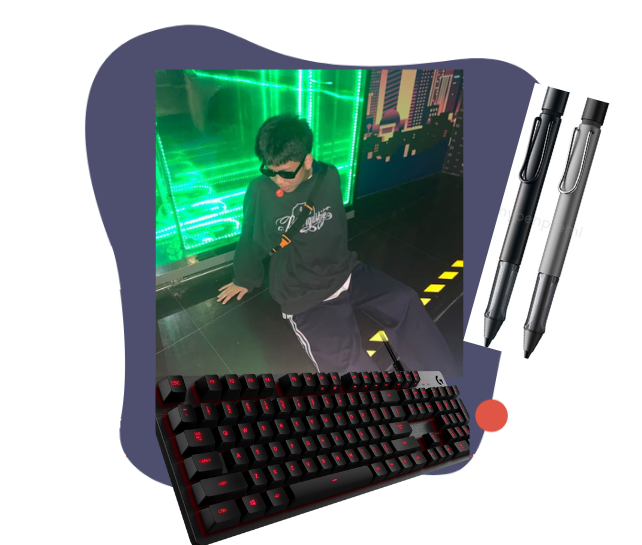
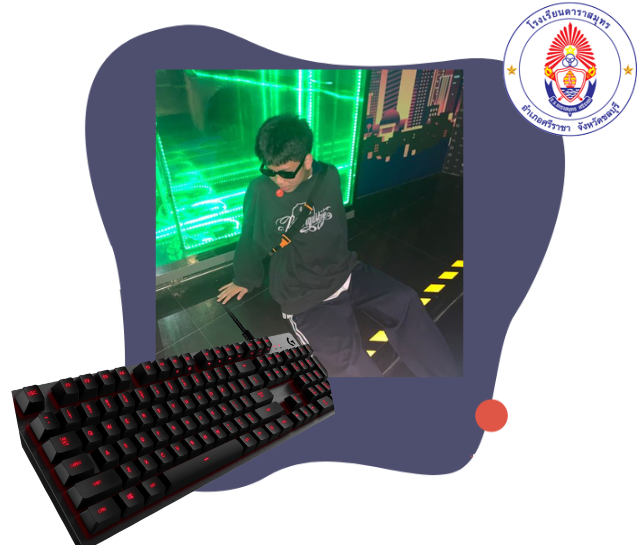
main

Changed region(s): [[0.0, 0.5927, 0.7477, 1.0], [0.7165, 0.0, 0.9969, 0.655], [0.3427, 0.5615, 0.3738, 0.5927]]

diff --git a/index.html b/index.html
@@ -222,7 +222,7 @@
                                 <div class="col-lg-7">
                                     <div class="skill-image pt-55 text-lg-right animate-element delay4 fadeInUp">
                                         <div class="skill-images-inner">
-                                            <img src="assets/images/skills/skills.png" alt="Skills">
+                                            <img src="assets/images/skills/skills-me.png" alt="Skills">
                                             <img class="shape-one animate-element delay6 bounceIn" src="assets/images/skills/shape-one.png" alt="shape">
                                             <img class="shape-two animate-element delay8 bounceIn" src="assets/images/skills/shape-two-dark.png" alt="shape">
                                         </div>
